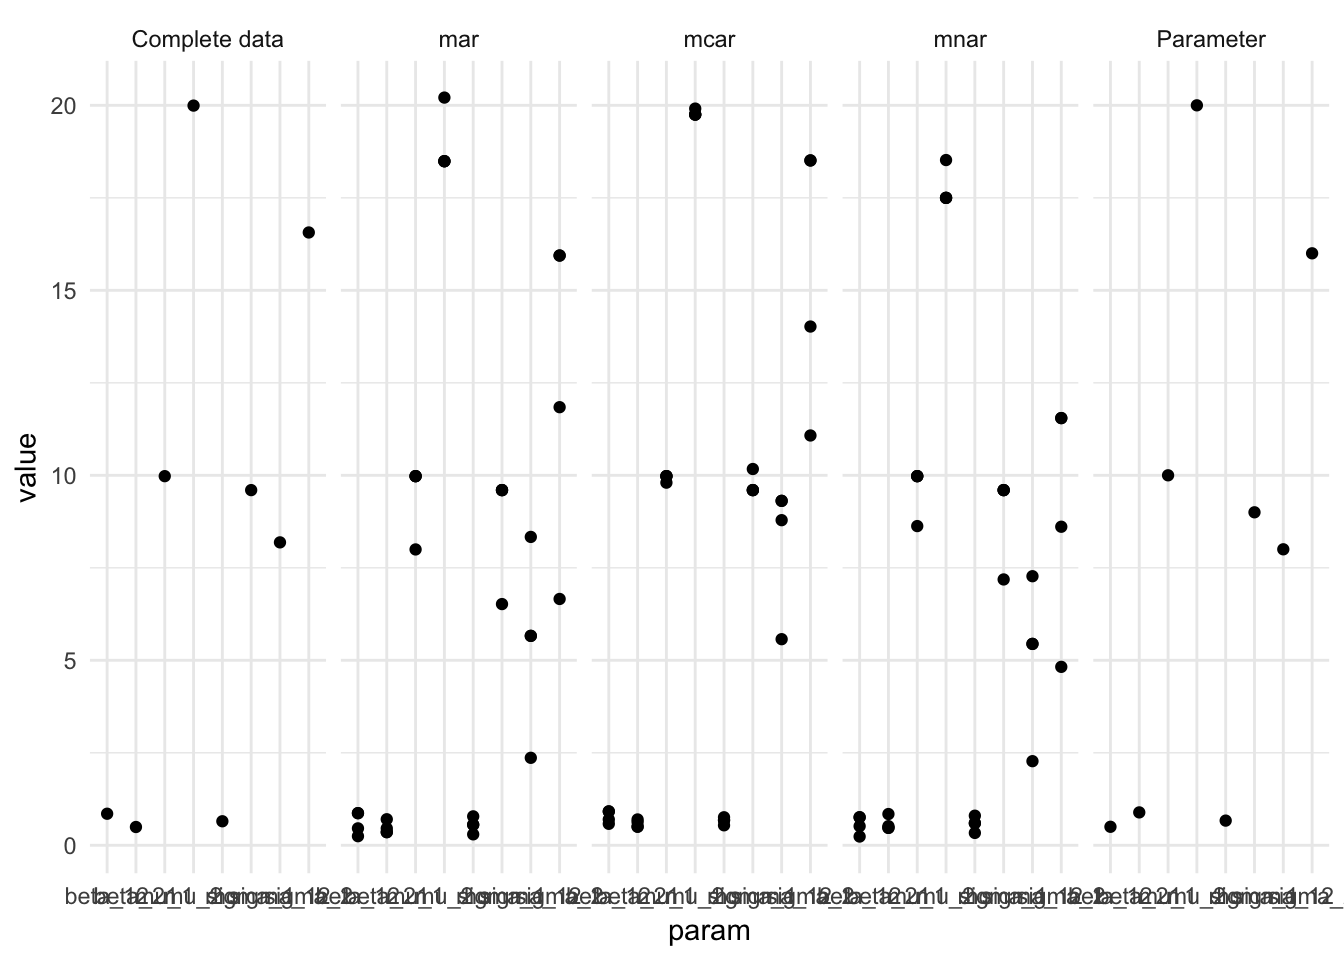
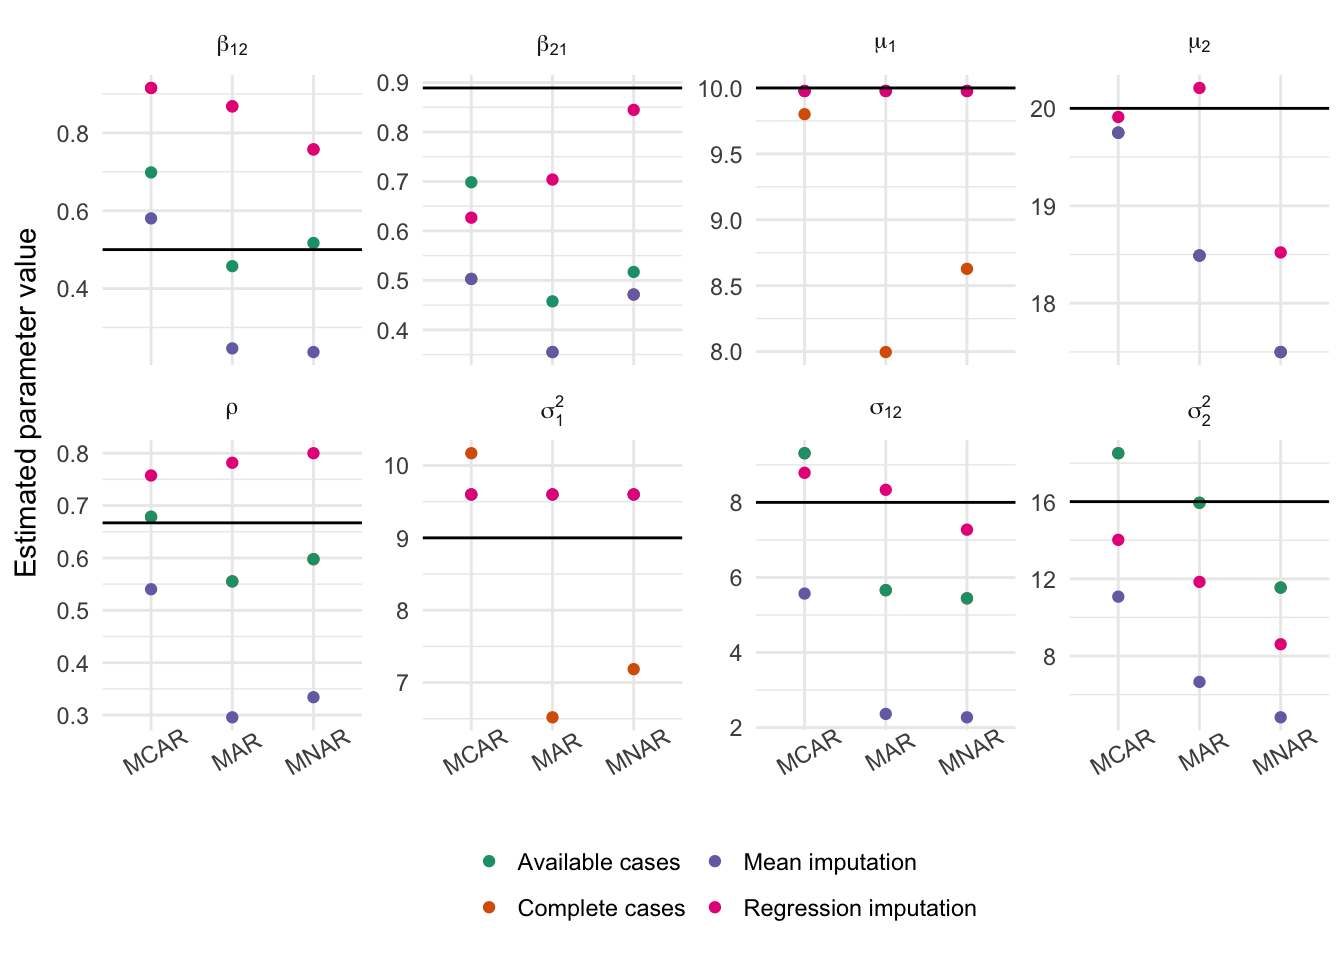
Fix comparison plot

diff --git a/persp014_missing_data.html b/persp014_missing_data.html
@@ -643,7 +643,7 @@ reg_imp &lt;-<span class="st"> </span>data_miss %&gt;%
                <span class="dt">x2 =</span> <span class="kw">ifelse</span>(<span class="kw">is.na</span>(x2), x2_imp, x2))) %&gt;%
 <span class="st">  </span><span class="kw">map_df</span>(get_miss_stat, <span class="dt">.id =</span> <span class="st">&quot;id&quot;</span>)
 
-<span class="kw">bind_rows</span>(
+sum_stats &lt;-<span class="st"> </span><span class="kw">bind_rows</span>(
   <span class="st">`</span><span class="dt">Population parameters</span><span class="st">`</span> =<span class="st"> </span><span class="kw">data_frame</span>(
     <span class="dt">mu_1 =</span> <span class="dv">10</span>,
     <span class="dt">mu_2 =</span> <span class="dv">20</span>,
@@ -663,9 +663,31 @@ reg_imp &lt;-<span class="st"> </span>data_miss %&gt;%
 <span class="st">  </span><span class="kw">mutate</span>(<span class="dt">id =</span> <span class="kw">ifelse</span>(method ==<span class="st"> &quot;Population parameters&quot;</span>, <span class="st">&quot;Parameter&quot;</span>, id),
          <span class="dt">id =</span> <span class="kw">ifelse</span>(method ==<span class="st"> &quot;Complete data&quot;</span>, <span class="st">&quot;Complete data&quot;</span>, id)) %&gt;%
 <span class="st">  </span><span class="kw">gather</span>(param, value, -method, -id) %&gt;%
-<span class="st">  </span><span class="kw">ggplot</span>(<span class="kw">aes</span>(param, value)) +
-<span class="st">  </span><span class="kw">facet_grid</span>(. ~<span class="st"> </span>id) +
-<span class="st">  </span><span class="kw">geom_point</span>()</code></pre></div>
+<span class="st">  </span><span class="kw">mutate</span>(<span class="dt">param =</span> <span class="kw">ifelse</span>(param ==<span class="st"> &quot;mu_1&quot;</span>, <span class="st">&quot;mu[1]&quot;</span>, param),
+         <span class="dt">param =</span> <span class="kw">ifelse</span>(param ==<span class="st"> &quot;mu_2&quot;</span>, <span class="st">&quot;mu[2]&quot;</span>, param),
+         <span class="dt">param =</span> <span class="kw">ifelse</span>(param ==<span class="st"> &quot;sigma_1&quot;</span>, <span class="st">&quot;sigma[1]^2&quot;</span>, param),
+         <span class="dt">param =</span> <span class="kw">ifelse</span>(param ==<span class="st"> &quot;sigma_2&quot;</span>, <span class="st">&quot;sigma[2]^2&quot;</span>, param),
+         <span class="dt">param =</span> <span class="kw">ifelse</span>(param ==<span class="st"> &quot;sigma_12&quot;</span>, <span class="st">&quot;sigma[12]&quot;</span>, param),
+         <span class="dt">param =</span> <span class="kw">ifelse</span>(param ==<span class="st"> &quot;beta_12&quot;</span>, <span class="st">&quot;beta[12]&quot;</span>, param),
+         <span class="dt">param =</span> <span class="kw">ifelse</span>(param ==<span class="st"> &quot;beta_21&quot;</span>, <span class="st">&quot;beta[21]&quot;</span>, param))
+
+sum_stats %&gt;%
+<span class="st">  </span><span class="kw">filter</span>(id %in%<span class="st"> </span><span class="kw">c</span>(<span class="st">&quot;mcar&quot;</span>, <span class="st">&quot;mar&quot;</span>, <span class="st">&quot;mnar&quot;</span>)) %&gt;%
+<span class="st">  </span><span class="kw">mutate</span>(<span class="dt">id =</span> <span class="kw">factor</span>(id, <span class="dt">levels =</span> <span class="kw">c</span>(<span class="st">&quot;mcar&quot;</span>, <span class="st">&quot;mar&quot;</span>, <span class="st">&quot;mnar&quot;</span>),
+                     <span class="dt">labels =</span> <span class="kw">c</span>(<span class="st">&quot;MCAR&quot;</span>, <span class="st">&quot;MAR&quot;</span>, <span class="st">&quot;MNAR&quot;</span>))) %&gt;%
+<span class="st">  </span><span class="kw">ggplot</span>(<span class="kw">aes</span>(id, value, <span class="dt">color =</span> method)) +
+<span class="st">  </span><span class="kw">facet_wrap</span>( ~<span class="st"> </span>param, <span class="dt">nrow =</span> <span class="dv">2</span>, <span class="dt">scales =</span> <span class="st">&quot;free_y&quot;</span>,
+              <span class="dt">labeller =</span> <span class="st">&quot;label_parsed&quot;</span>) +
+<span class="st">  </span><span class="kw">geom_point</span>() +
+<span class="st">  </span><span class="kw">geom_hline</span>(<span class="dt">data =</span> <span class="kw">filter</span>(sum_stats, id ==<span class="st"> &quot;Parameter&quot;</span>),
+             <span class="kw">aes</span>(<span class="dt">yintercept =</span> value)) +
+<span class="st">  </span><span class="kw">scale_color_brewer</span>(<span class="dt">type =</span> <span class="st">&quot;qual&quot;</span>, <span class="dt">palette =</span> <span class="st">&quot;Dark2&quot;</span>, 
+                     <span class="dt">guide =</span> <span class="kw">guide_legend</span>(<span class="dt">nrow =</span> <span class="dv">2</span>)) +
+<span class="st">  </span><span class="kw">labs</span>(<span class="dt">x =</span> <span class="ot">NULL</span>,
+       <span class="dt">y =</span> <span class="st">&quot;Estimated parameter value&quot;</span>,
+       <span class="dt">color =</span> <span class="ot">NULL</span>) +
+<span class="st">  </span><span class="kw">theme</span>(<span class="dt">axis.text.x =</span> <span class="kw">element_text</span>(<span class="dt">angle =</span> <span class="dv">30</span>),
+        <span class="dt">legend.position =</span> <span class="st">&quot;bottom&quot;</span>)</code></pre></div>
 </div>
 </div>
 </div>
@@ -1163,10 +1185,12 @@ models_trans_imp</code></pre></div>
 ##  date     2017-05-09                  
 ## 
 ##  package      * version    date       source                           
+##  Amelia       * 1.7.4      2015-12-06 CRAN (R 3.3.0)                   
 ##  assertthat     0.2.0      2017-04-11 cran (@0.2.0)                    
 ##  backports      1.0.5      2017-01-18 CRAN (R 3.3.2)                   
 ##  broom        * 0.4.2      2017-02-13 CRAN (R 3.3.2)                   
 ##  car          * 2.1-4      2016-12-02 CRAN (R 3.3.2)                   
+##  codetools      0.2-15     2016-10-05 CRAN (R 3.3.3)                   
 ##  colorspace     1.3-2      2016-12-14 CRAN (R 3.3.2)                   
 ##  DBI            0.6        2017-03-09 CRAN (R 3.3.3)                   
 ##  devtools       1.12.0     2016-06-24 CRAN (R 3.3.0)                   
@@ -1183,6 +1207,7 @@ models_trans_imp</code></pre></div>
 ##  httr           1.2.1      2016-07-03 CRAN (R 3.3.0)                   
 ##  jsonlite       1.4        2017-04-08 cran (@1.4)                      
 ##  knitr          1.15.1     2016-11-22 cran (@1.15.1)                   
+##  labeling       0.3        2014-08-23 CRAN (R 3.3.0)                   
 ##  lattice        0.20-34    2016-09-06 CRAN (R 3.3.3)                   
 ##  lazyeval       0.2.0      2016-06-12 CRAN (R 3.3.0)                   
 ##  lme4           1.1-12     2016-04-16 cran (@1.1-12)                   
@@ -1208,7 +1233,7 @@ models_trans_imp</code></pre></div>
 ##  R6             2.2.0      2016-10-05 CRAN (R 3.3.0)                   
 ##  rcfss        * 0.1.4      2017-02-28 local                            
 ##  RColorBrewer * 1.1-2      2014-12-07 CRAN (R 3.3.0)                   
-##  Rcpp           0.12.10    2017-03-19 cran (@0.12.10)                  
+##  Rcpp         * 0.12.10    2017-03-19 cran (@0.12.10)                  
 ##  readr        * 1.1.0      2017-03-22 cran (@1.1.0)                    
 ##  readxl         0.1.1      2016-03-28 CRAN (R 3.3.0)                   
 ##  reshape2       1.4.2      2016-10-22 CRAN (R 3.3.0)                   
